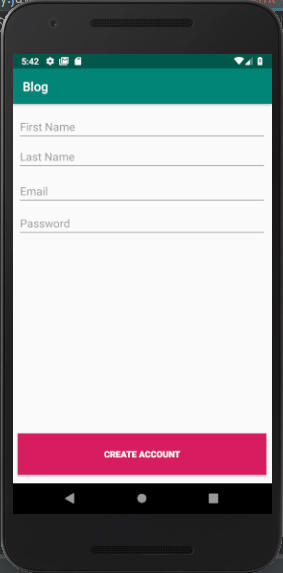
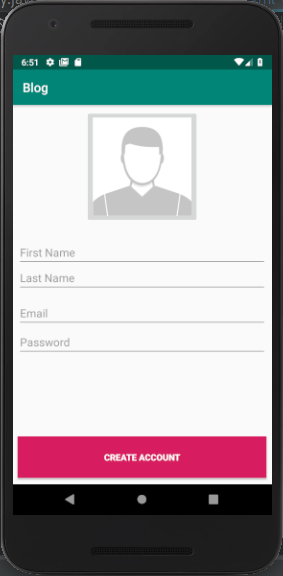
Add picture user in create account

diff --git a/app/src/main/java/wallyson/lima/blog/Activities/CreateAccountActivity.java b/app/src/main/java/wallyson/lima/blog/Activities/CreateAccountActivity.java
@@ -2,12 +2,14 @@ package wallyson.lima.blog.Activities;
 
 import android.app.ProgressDialog;
 import android.content.Intent;
+import android.support.annotation.Nullable;
 import android.support.v7.app.AppCompatActivity;
 import android.os.Bundle;
 import android.text.TextUtils;
 import android.view.View;
 import android.widget.Button;
 import android.widget.EditText;
+import android.widget.ImageButton;
 
 import com.google.android.gms.tasks.OnSuccessListener;
 import com.google.firebase.auth.AuthResult;
@@ -24,6 +26,8 @@ public class CreateAccountActivity extends AppCompatActivity {
     private FirebaseDatabase mDatabase;
     private FirebaseAuth mAuth;
     private ProgressDialog mProgressDialog;
+    private ImageButton profilePic;
+    private final static int GALLERY_CODE = 1;
 
 
     @Override
@@ -42,7 +46,19 @@ public class CreateAccountActivity extends AppCompatActivity {
         lastName = findViewById(R.id.lastNameAct);
         email = findViewById(R.id.emailAct);
         password = findViewById(R.id.passwordAct);
+        profilePic = findViewById(R.id.profilePic);
         createAccountBtn = findViewById(R.id.createAccountAct);
+
+        profilePic.setOnClickListener(new View.OnClickListener() {
+            @Override
+            public void onClick(View v) {
+                Intent galleryIntent = new Intent();
+                galleryIntent.setAction(Intent.ACTION_GET_CONTENT);
+                galleryIntent.setType("image/*");
+                startActivityForResult(galleryIntent, GALLERY_CODE);
+
+            }
+        });
 
         createAccountBtn.setOnClickListener(new View.OnClickListener() {
             @Override
@@ -83,6 +99,15 @@ public class CreateAccountActivity extends AppCompatActivity {
                     }
                 }
             });
+        }
+    }
+
+    @Override
+    protected void onActivityResult(int requestCode, int resultCode, @Nullable Intent data) {
+        super.onActivityResult(requestCode, resultCode, data);
+
+        if ( requestCode == GALLERY_CODE && resultCode == RESULT_OK ) {
+            
         }
     }
 }
